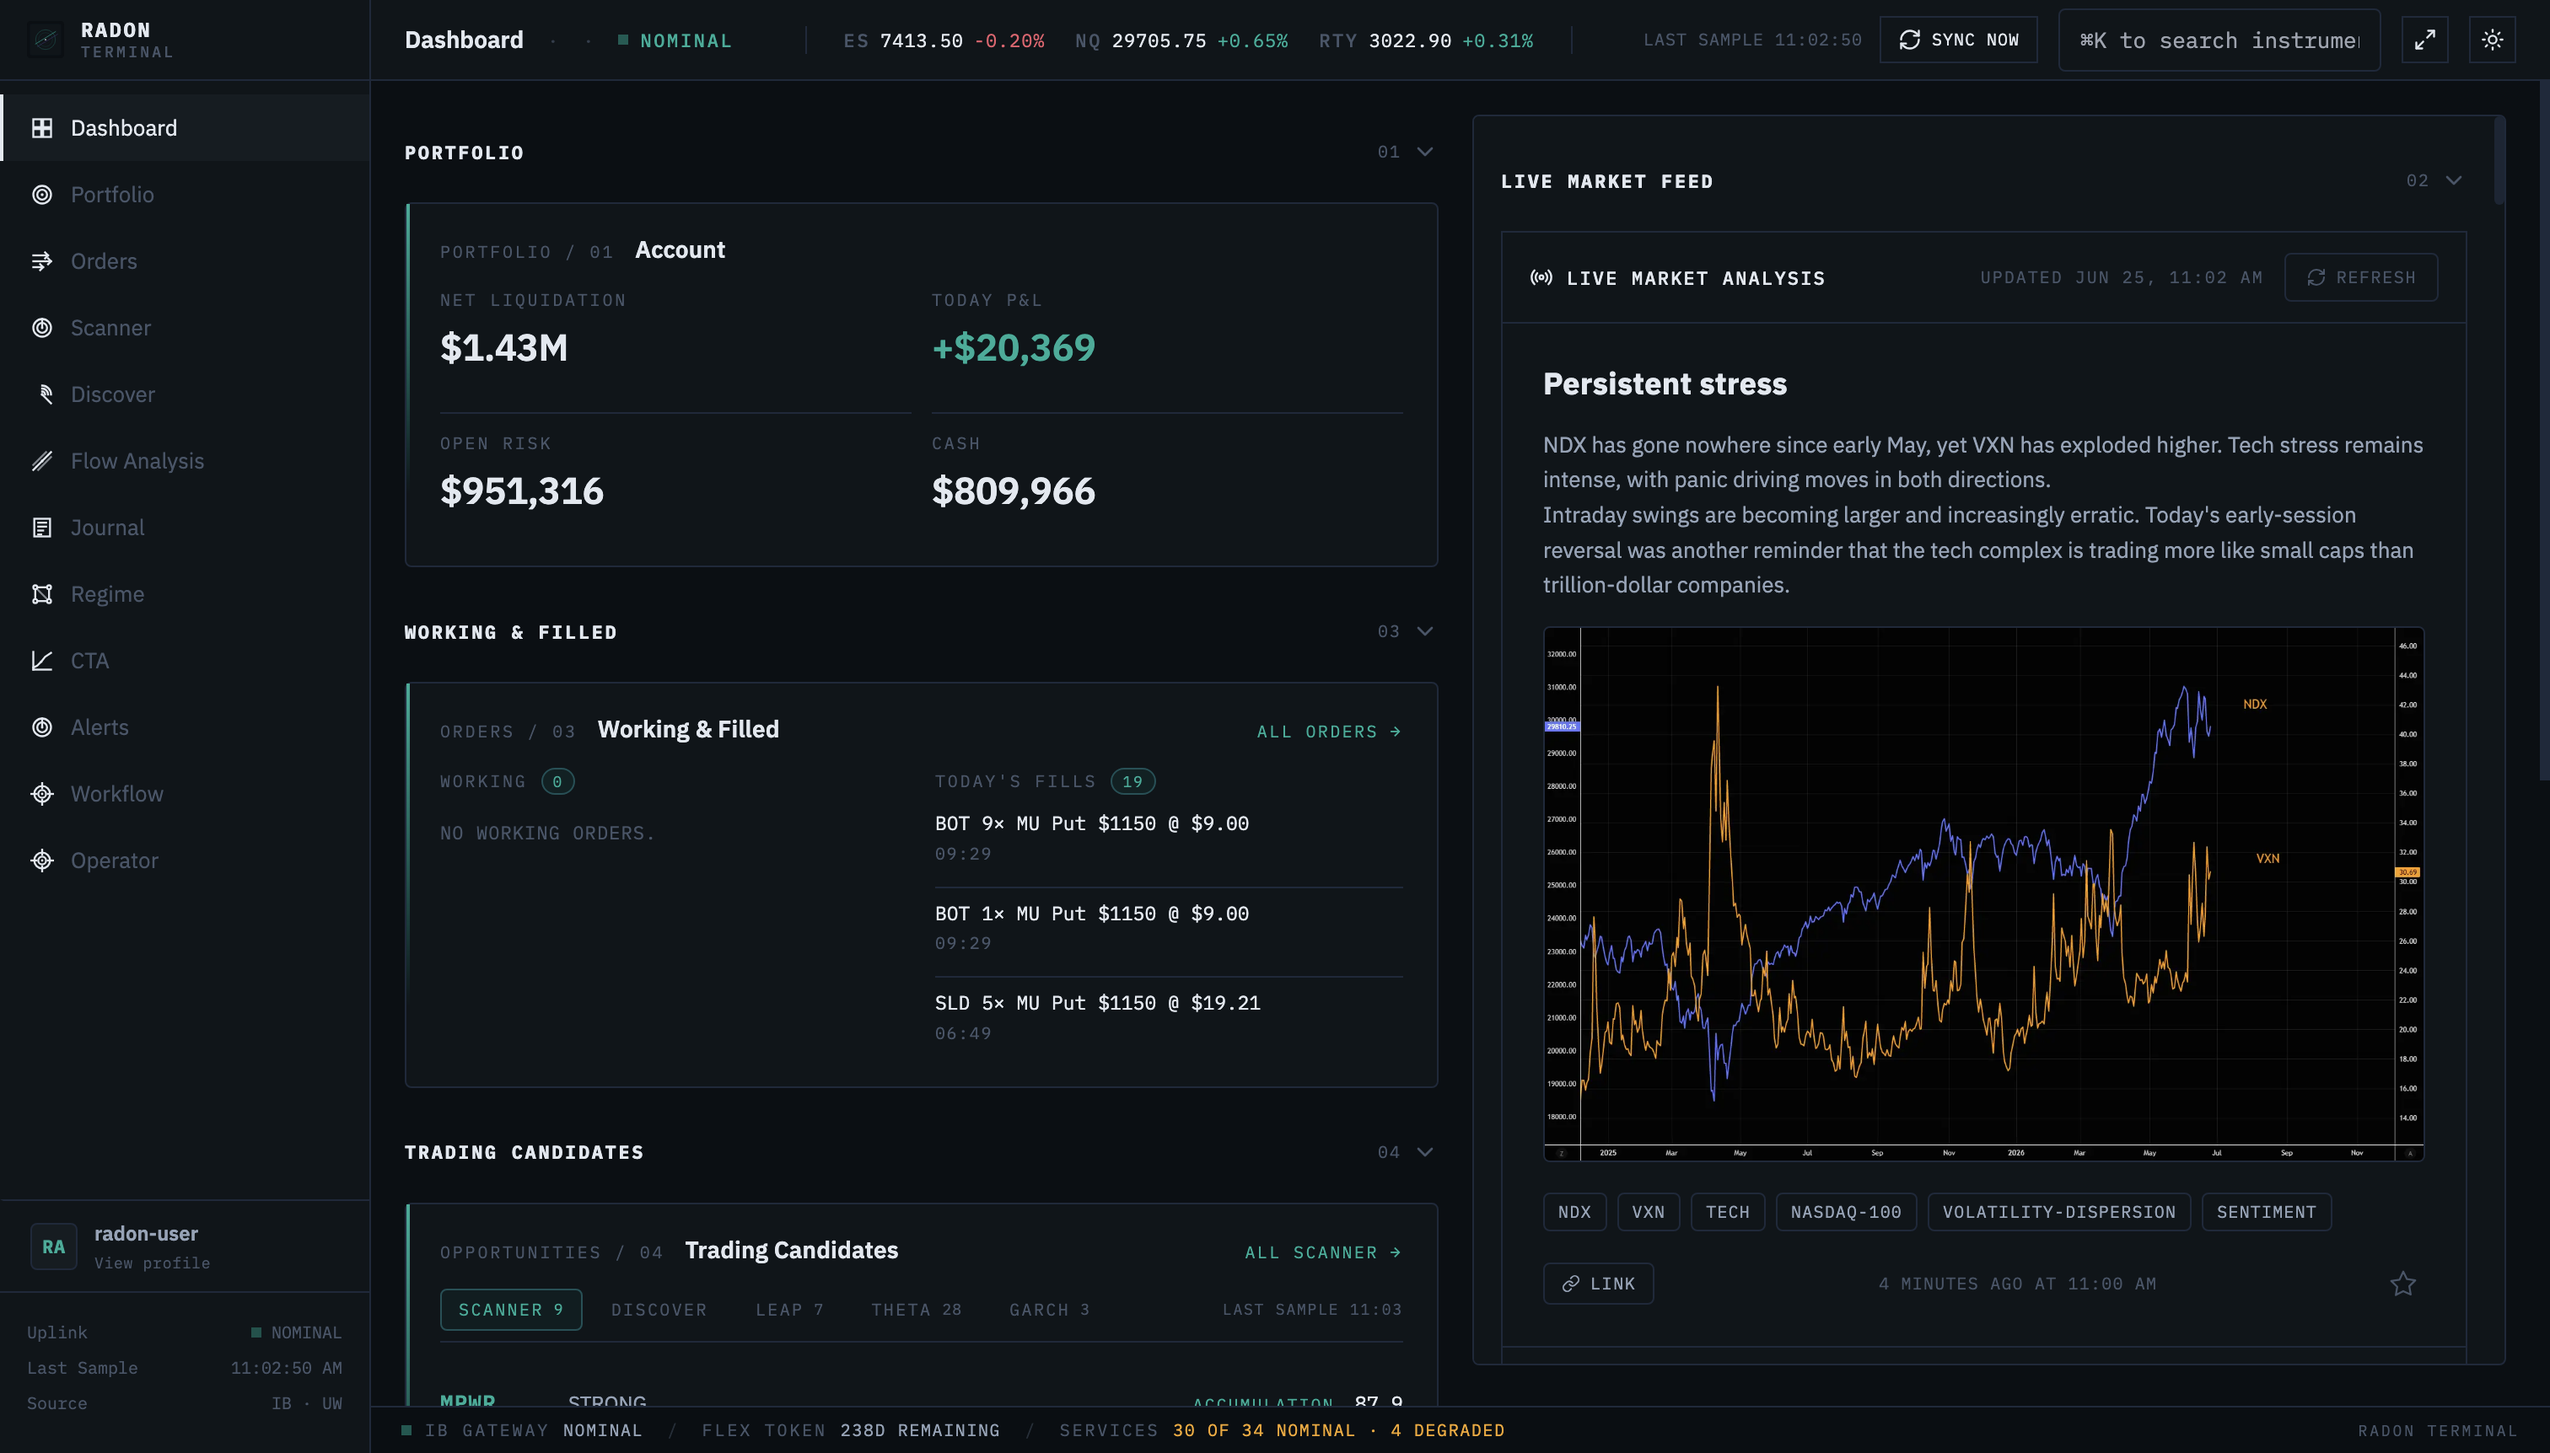
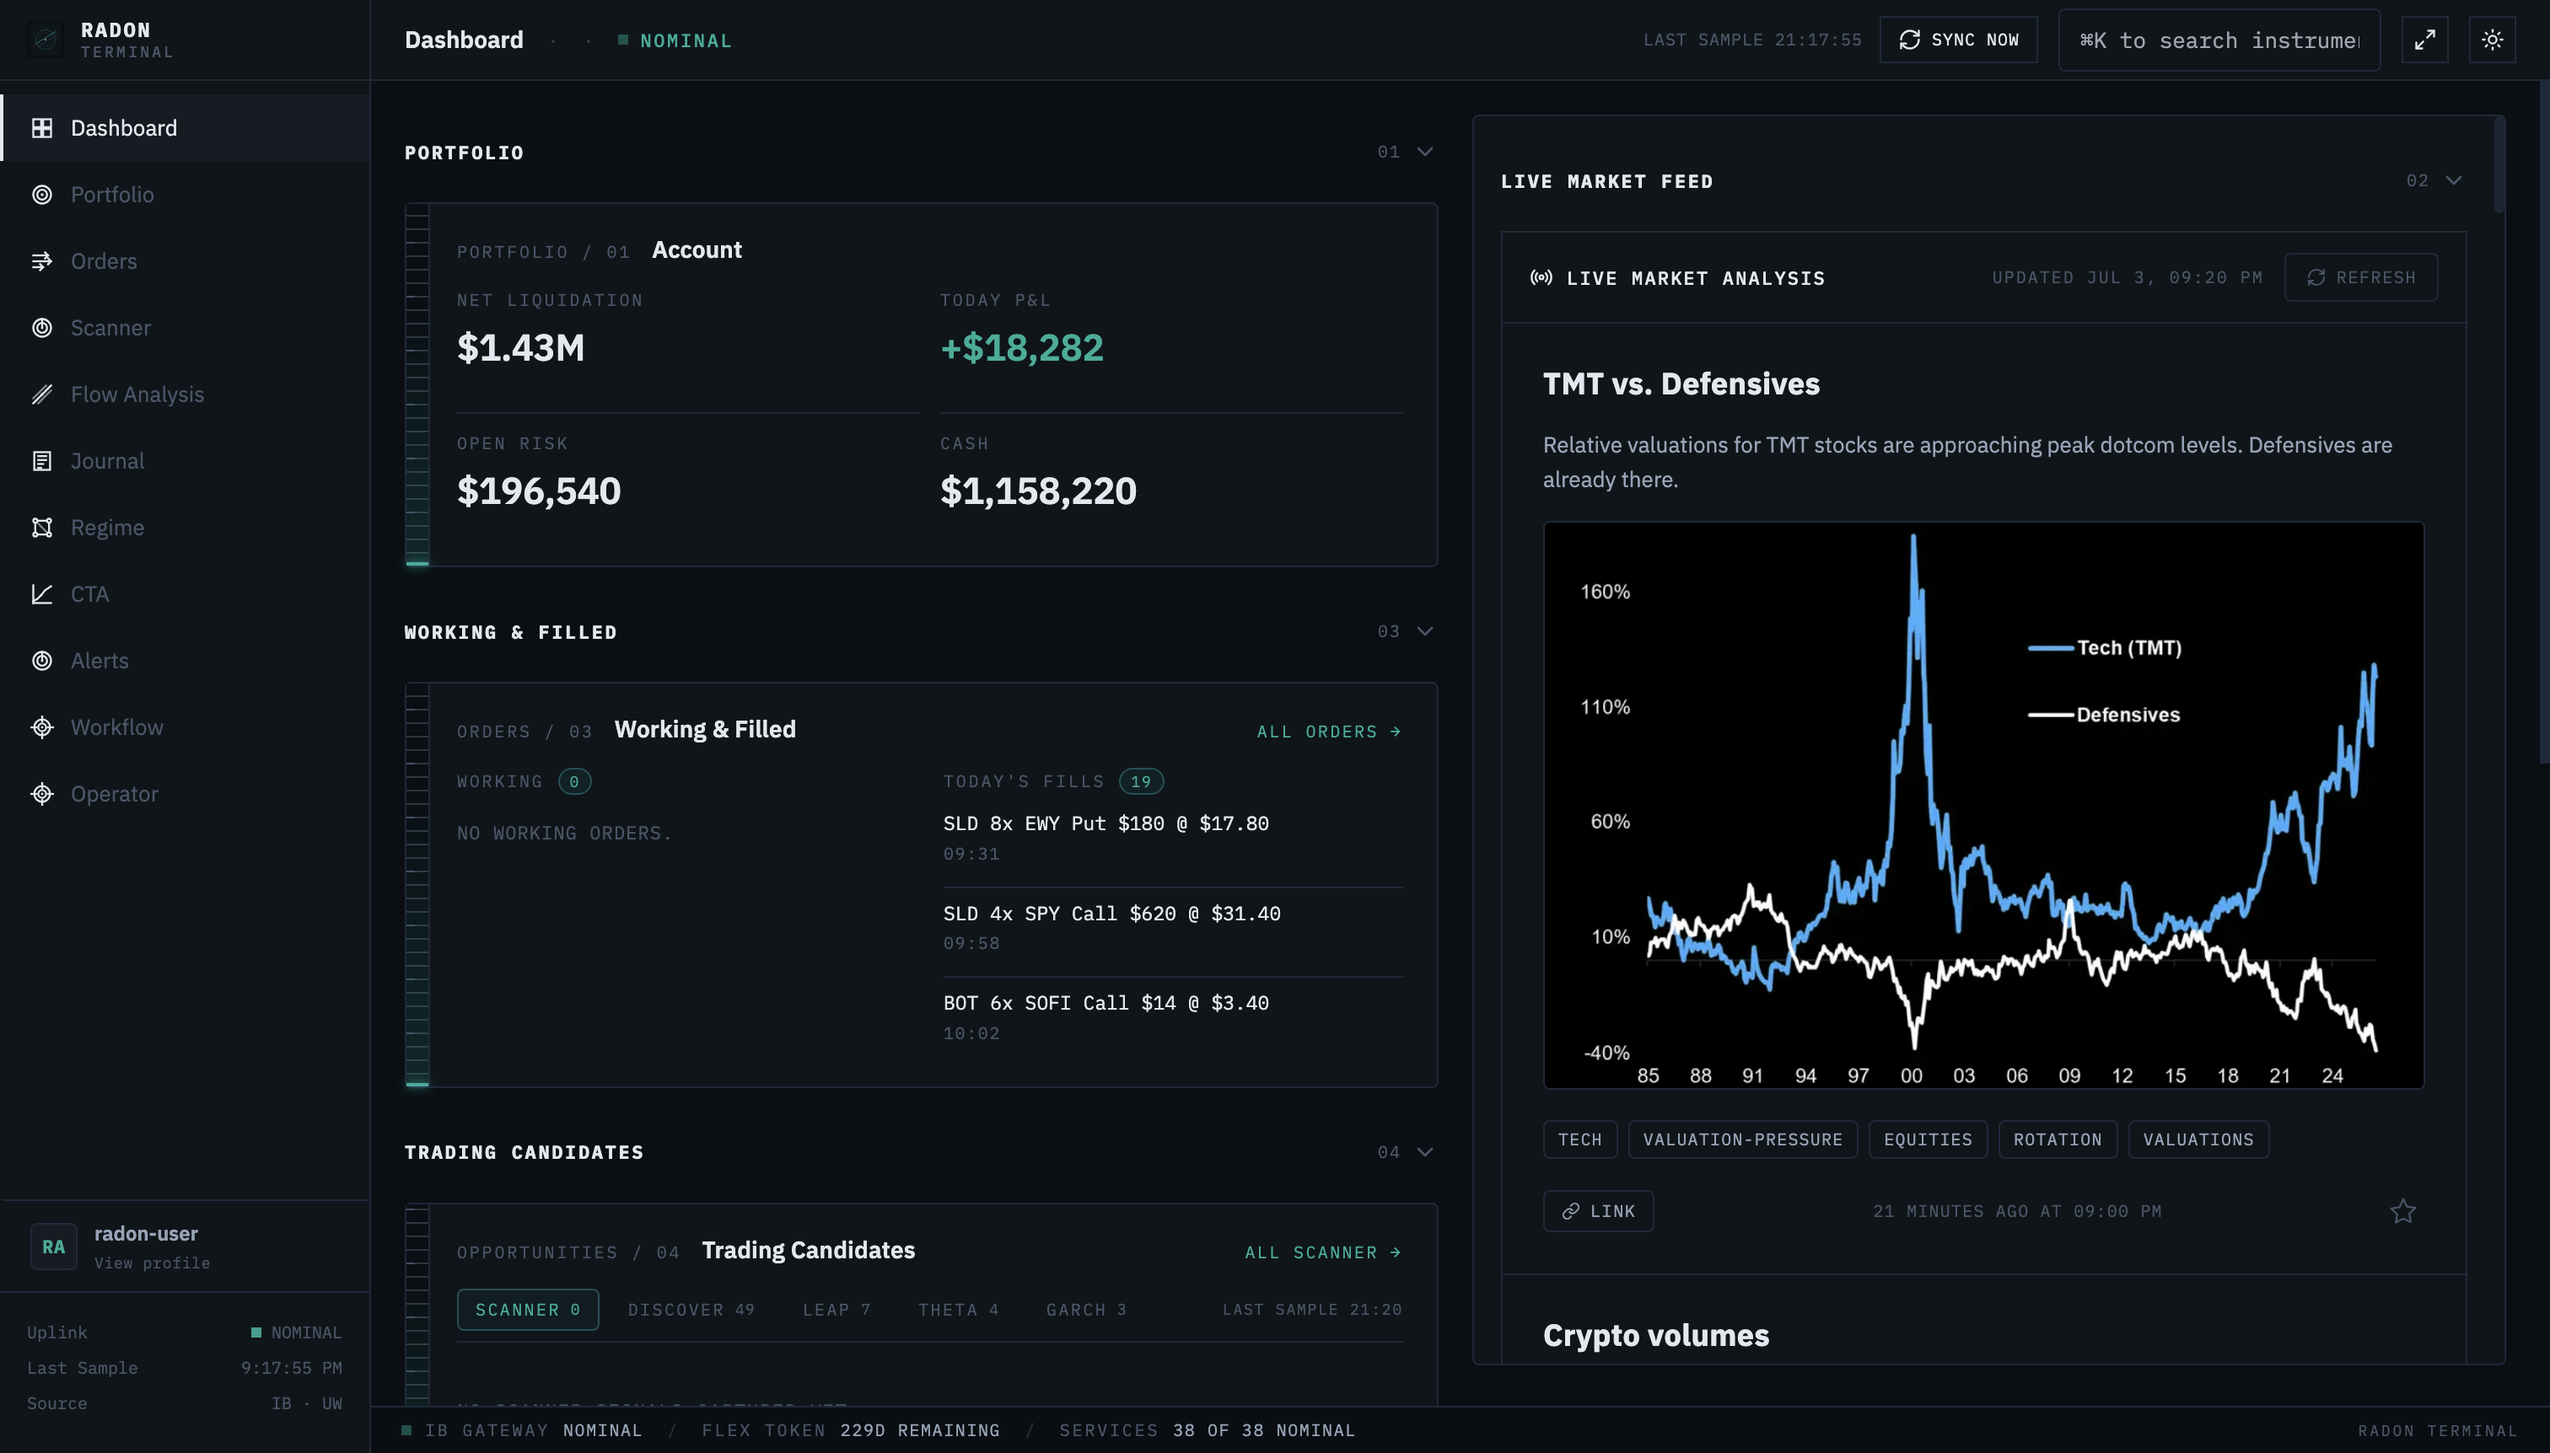
feat(site): Try Free Demo CTAs, synthetic dashboard plates, source links, copy fix
Clears the pre-deploy PII gate and finishes the conversion pass:

- Dashboard plates (light+dark) recaptured per the site/CLAUDE.md
  methodology with a DOM re-applier that renders a fully synthetic
  account consistent with the portfolio recreation's fictional book:
  $1.43M net liq, +$18,282 today, $196,540 open risk, $1,158,220
  cash, fictional EWY/SPY/SOFI fills, radon-user identity. Verified
  in-DOM before capture (no /mccann/i, no real tickers or figures)
  and visually in both PNGs. Source copies mirrored to
  marketing-mockups/shots/.
- CTAs renamed to the demo: header TRY FREE DEMO, colophon primary
  Try the free demo, footer Free demo, all -> https://demo.radon.run
  (public signups live there; app.radon.run is operator-allowlisted).
- Interactive Brokers / Unusual Whales hero mentions link to the
  README reference URLs (UW carries the referral fragment).
- Flow thesis paragraph rewritten off the "This is not X. It is Y."
  construction.

Verified: next build compile 0 errors, eslint 0 errors, site/lib
vitest 8/8, local render of hero links + new copy + plates.

diff --git a/site/components/sections/EditorialHeroSection.tsx b/site/components/sections/EditorialHeroSection.tsx
@@ -3,6 +3,10 @@ import { RevealOnScroll } from "@/components/atoms/RevealOnScroll";
 import { PlateFrame } from "@/components/molecules/PlateFrame";
 import { ProductPlate } from "@/components/molecules/ProductPlate";
 import { FlowLeadFigure } from "@/components/organisms/FlowLeadFigure";
+import { IB_URL, UW_URL } from "@/lib/editorial-content";
+
+const sourceLink =
+  "underline decoration-grid underline-offset-4 transition-colors hover:text-signal-deep hover:decoration-signal-deep";
 
 export function EditorialHeroSection() {
   return (
@@ -40,7 +44,15 @@ export function EditorialHeroSection() {
         >
           Radon reconstructs market structure from dark-pool and OTC flow, then scores
           institutional accumulation while the lit price is still quiet. The read comes
-          from Interactive Brokers and Unusual Whales data, not a model that guesses.
+          from{" "}
+          <a href={IB_URL} target="_blank" rel="noopener noreferrer" className={sourceLink}>
+            Interactive Brokers
+          </a>{" "}
+          and{" "}
+          <a href={UW_URL} target="_blank" rel="noopener noreferrer" className={sourceLink}>
+            Unusual Whales
+          </a>{" "}
+          data, not a model that guesses.
           Nothing routes until it clears four sequential gates and seven milestones:
           convexity, defined risk, Kelly size. No black box. Every edge is a named,
           testable mechanism.
@@ -48,10 +60,17 @@ export function EditorialHeroSection() {
 
         <RevealOnScroll className="mt-[34px] flex flex-wrap gap-7 font-mono text-[12px] tracking-[0.03em] text-muted">
           <span>
-            Inputs <b className="font-medium text-primary">Interactive Brokers</b> realtime
+            Inputs{" "}
+            <a href={IB_URL} target="_blank" rel="noopener noreferrer" className={sourceLink}>
+              <b className="font-medium text-primary">Interactive Brokers</b>
+            </a>{" "}
+            realtime
           </span>
           <span>
-            <b className="font-medium text-primary">Unusual Whales</b> dark-pool prints
+            <a href={UW_URL} target="_blank" rel="noopener noreferrer" className={sourceLink}>
+              <b className="font-medium text-primary">Unusual Whales</b>
+            </a>{" "}
+            dark-pool prints
           </span>
           <span>
             Regime read across <b className="font-medium text-primary">four</b> orthogonal

diff --git a/site/components/sections/ColophonSection.tsx b/site/components/sections/ColophonSection.tsx
@@ -1,6 +1,6 @@
 import { EditorialEyebrow } from "@/components/atoms/EditorialEyebrow";
 import { RevealOnScroll } from "@/components/atoms/RevealOnScroll";
-import { TERMINAL_URL } from "@/lib/editorial-content";
+import { DEMO_URL } from "@/lib/editorial-content";
 
 const focusRing =
   "focus-visible:outline-none focus-visible:ring-2 focus-visible:ring-focus/60 focus-visible:ring-offset-2 focus-visible:ring-offset-panel-raised";
@@ -43,10 +43,10 @@ export function ColophonSection() {
 
         <RevealOnScroll className="flex flex-wrap items-center gap-x-6 gap-y-4">
           <a
-            href={TERMINAL_URL}
+            href={DEMO_URL}
             className={`inline-block rounded-[4px] border border-signal-deep bg-signal-deep px-[22px] py-[13px] font-mono text-[12px] uppercase tracking-[0.06em] text-canvas transition-colors hover:bg-transparent hover:text-signal-deep ${focusRing}`}
           >
-            Open the terminal
+            Try the free demo
           </a>
           <a
             href="#pipeline"

diff --git a/site/components/sections/EditorialHeader.tsx b/site/components/sections/EditorialHeader.tsx
@@ -1,5 +1,5 @@
 import { ThemeToggle } from "@/components/atoms/ThemeToggle";
-import { editorialNavLinks, TERMINAL_URL } from "@/lib/editorial-content";
+import { editorialNavLinks, DEMO_URL } from "@/lib/editorial-content";
 
 const focusRing =
   "focus-visible:outline-none focus-visible:ring-2 focus-visible:ring-focus/60 focus-visible:ring-offset-2 focus-visible:ring-offset-canvas";
@@ -31,10 +31,10 @@ export function EditorialHeader() {
             </a>
           ))}
           <a
-            href={TERMINAL_URL}
+            href={DEMO_URL}
             className={`inline-block rounded-[4px] border border-grid px-[13px] py-[7px] font-mono text-[11px] uppercase tracking-[0.06em] text-primary transition-colors hover:border-signal-deep hover:text-signal-deep ${focusRing}`}
           >
-            Open terminal
+            Try free demo
           </a>
           <ThemeToggle />
         </nav>

diff --git a/site/lib/editorial-content.ts b/site/lib/editorial-content.ts
@@ -14,8 +14,14 @@ export const editorialNavLinks: EditorialNavLink[] = [
   { label: "Registry", href: "#registry" },
 ];
 
-// The one external destination on the page: the instrument itself.
-export const TERMINAL_URL = "https://app.radon.run";
+// The one product destination on the page: the free demo instance
+// (public signups live there; app.radon.run is operator-allowlisted).
+export const DEMO_URL = "https://demo.radon.run";
+
+// Data-source reference links (from README.md; UW carries the referral).
+export const IB_URL = "https://www.interactivebrokers.com/";
+export const UW_URL =
+  "https://unusualwhales.com/referral#39985a64-656c-4642-a051-db89f6324d64";
 
 export type ScannerRow = {
   ticker: string;

diff --git a/site/components/sections/FlowThesisSection.tsx b/site/components/sections/FlowThesisSection.tsx
@@ -22,8 +22,9 @@ export function FlowThesisSection() {
               accumulation or distribution before the move appears on a chart.
             </p>
             <p className="mb-[1.05em] text-secondary">
-              This is not forecasting. It is observation of a known mechanism with a
-              measurable lead. The signal either clears a threshold or it does not.
+              The lead is measured, not assumed. Accumulation shows up in the print
+              stream sessions before it shows up in price, and a score that misses its
+              threshold is discarded, whatever the chart looks like.
             </p>
 
             <div className="mt-7 border-t border-hairline-soft">

diff --git a/site/components/sections/EditorialFooter.tsx b/site/components/sections/EditorialFooter.tsx
@@ -1,4 +1,4 @@
-import { editorialNavLinks, TERMINAL_URL } from "@/lib/editorial-content";
+import { editorialNavLinks, DEMO_URL } from "@/lib/editorial-content";
 
 export function EditorialFooter() {
   return (
@@ -16,10 +16,10 @@ export function EditorialFooter() {
             </a>
           ))}
           <a
-            href={TERMINAL_URL}
+            href={DEMO_URL}
             className="text-primary transition-colors hover:text-signal-deep"
           >
-            Terminal
+            Free demo
           </a>
         </span>
       </div>
